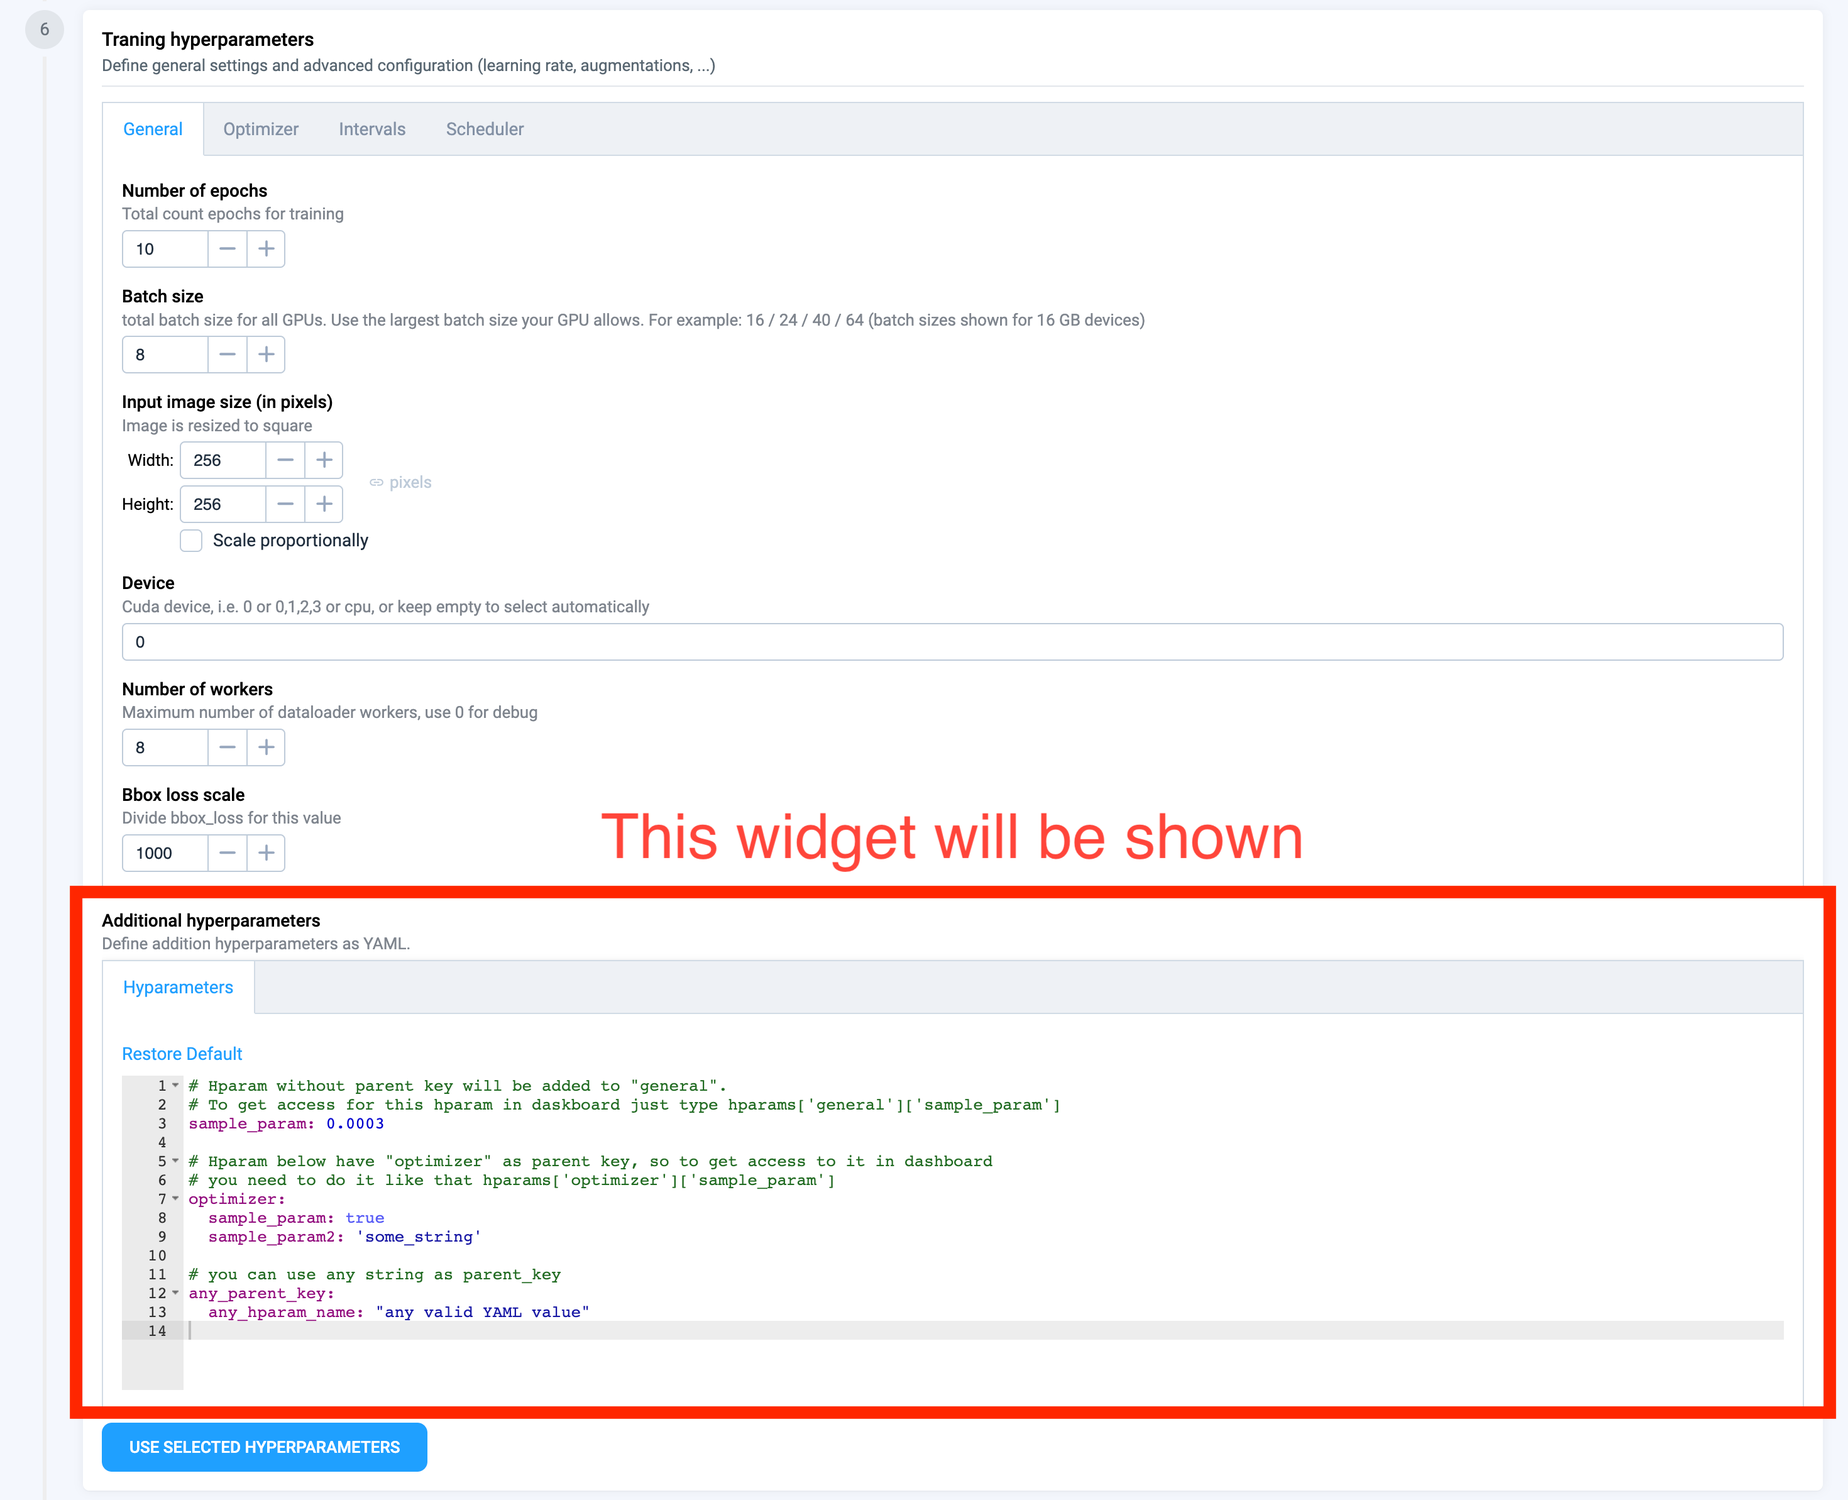
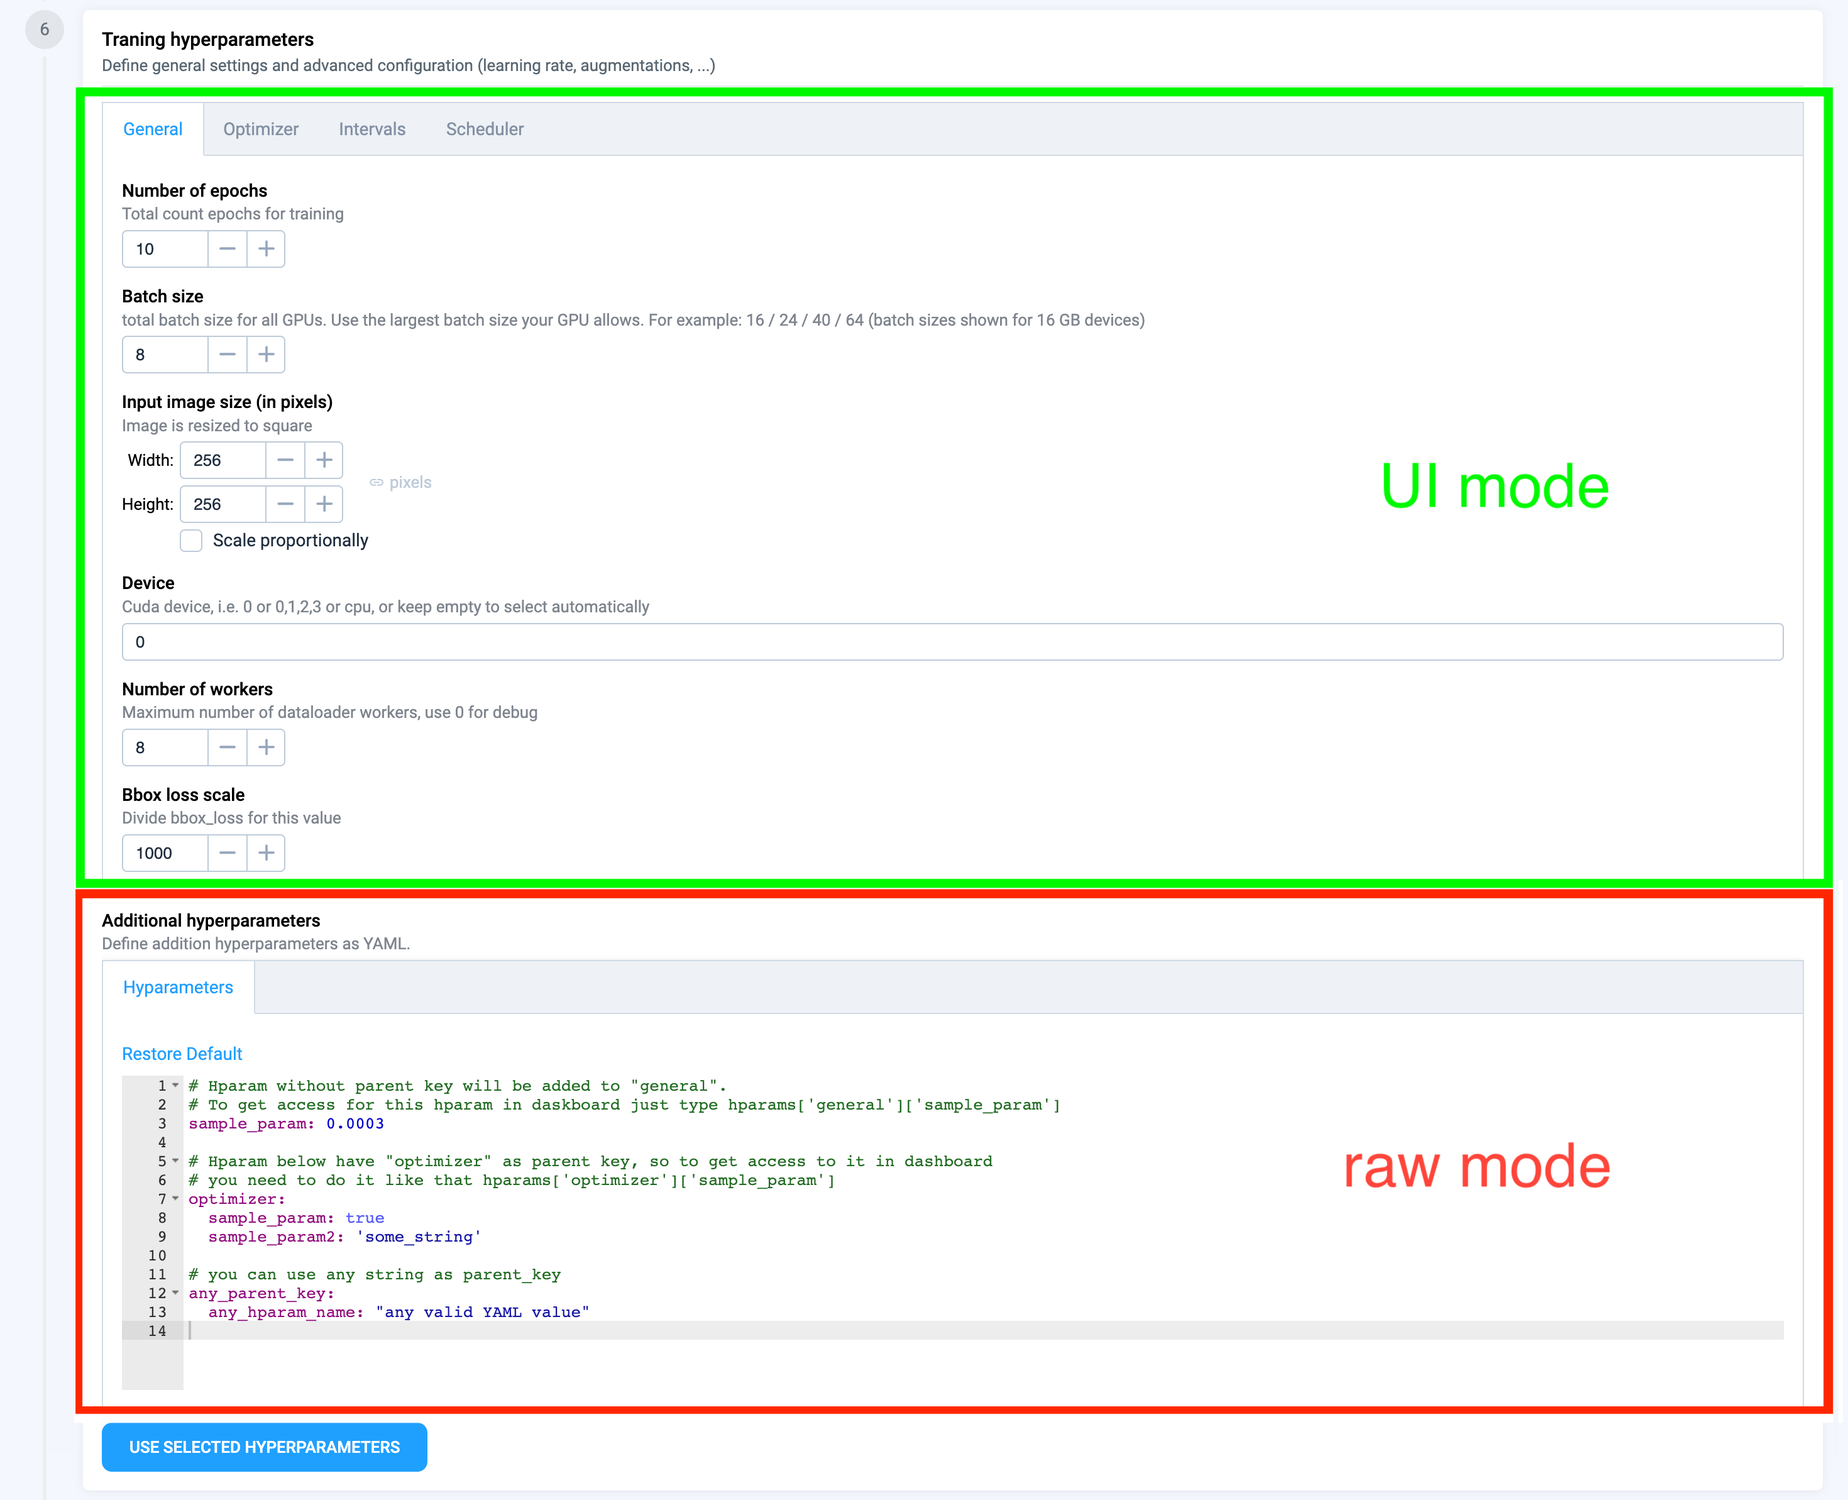
Docs updated

Changed region(s): [[0.031, 0.031, 1.0, 0.9614], [0.7119, 0.7443, 0.8667, 0.8064], [0.7429, 0.3101, 0.8667, 0.3412]]

diff --git a/app-development/neural-network-integration/training/training-dashboard.md b/app-development/neural-network-integration/training/training-dashboard.md
@@ -8,7 +8,10 @@ description: >-
 
 ## Introduction
 
-This tutorial will teach you how to integrate your custom object detection model into Supervisely by using TrainingDashboard class.
+This tutorial will teach you how to integrate your custom object detection model into Supervisely by using ObjectDetectionTrainDashboad class. 
+
+Full code of object detecting sample app can be found [here](https://github.com/supervisely-ecosystem/object-detection-training-template)
+
 <figure>
 <img src="../../../.gitbook/assets/training_dashboard.png" alt="">
 </figure>
@@ -37,7 +40,7 @@ code -r .
 The integration of your own NN with TrainingDashboard is really simple:
 
 1. Define pytorch dataset
-2. Define neural network model
+2. Define pytorch neural network model
 3. Define subclass **`TrainingDashboard`** and implement **`train`** method
 4. That's all. 😎 We are ready to run the training dashboard app.
 
@@ -59,38 +62,45 @@ from torch.utils.tensorboard import SummaryWriter
 from torchvision import models
 
 import src.sly_globals as g
-from src.dashboard import TrainDashboard
+from src.dashboard import ObjectDetectionTrainDashboad
 
 
 ###########################
 ### 1. Redefine your dataset and methods or use them as is
 ###########################
+
 class CustomDataset(Dataset):
-    def __init__(self, items_infos, classes, image_size, transforms=None):
-        self.items_infos = items_infos
+    def __init__(self, 
+                 items: sly.ImageInfo, 
+                 project_meta: sly.ProjectMeta, 
+                 classes: List[str], 
+                 input_size: Union[List, Tuple], 
+                 transforms: Optional[iaa.Sequential] = None):
+        self.items = items
+        self.project_meta = project_meta
         self.classes = classes
-        self.image_size = image_size
+        self.input_size = input_size
         self.transforms = transforms
     
-    def __getitem__(self, index):
-        image = sly.image.read(self.items_infos[index].img_path)
-        meta = g.project_meta
-        with open(self.items_infos[index].ann_path, 'r') as f:
-            ann = sly.Annotation.from_json(json.loads(f.read()), meta)
-        ann, meta = Augmentations.convert_ann_to_bboxes(ann, meta)
+    def __getitem__(self, index: int):
+        image = sly.image.read(self.items[index].img_path)
+        with open(self.items[index].ann_path, 'r') as f:
+            ann = sly.Annotation.from_json(json.loads(f.read()), self.project_meta)
 
         if self.transforms:
-            res_meta, image, ann = sly.imgaug_utils.apply(self.transforms, meta, image, ann)
+            res_meta, image, ann = sly.imgaug_utils.apply(self.transforms, self.project_meta, image, ann)
 
         meta, image, ann = sly.imgaug_utils.apply(
             iaa.Sequential([
-                iaa.Resize({"height": self.image_size[1], "width": self.image_size[0]})
+                iaa.Resize({"height": self.input_size[1], "width": self.input_size[0]})
             ]), 
-            meta, 
+            self.project_meta, 
             image, 
             ann
         )
 
+        # our simple model can work only with 1 bbox per image
+        # you need to change code if your model more complicated
         label = random.choice(ann.labels)
         class_id = self.classes.index(label.obj_class.name)
         bbox = label.geometry.to_bbox()
@@ -100,7 +110,8 @@ class CustomDataset(Dataset):
         return image, class_id, bbox
 
     def __len__(self):
-        return len(self.items_infos)
+        return len(self.items)
+
 
 ###########################
 ### 2. Define neural network model
@@ -126,7 +137,7 @@ class CustomModel(nn.Module):
 ###########################
 ### 3. Define dashboard
 ###########################
-class CustomTrainDashboard(TrainDashboard):
+class CustomTrainDashboard(ObjectDetectionTrainDashboad):
     def train(self):
         # getting selected classes from UI
         classes = self._classes_table.get_selected_classes()
@@ -134,52 +145,49 @@ class CustomTrainDashboard(TrainDashboard):
         train_set, val_set = self.get_splits()
         # getting hyperparameters from UI
         hparams = self.get_hyperparameters()
-        # this will return torch.optim.YOUR_SELECTED_OPTIMIZER
-        optimizer = self.get_optimizer(name=hparams['optimizer']['name'])
-        optimizer = optimizer(
-            self.model.parameters(),
-            hparams['optimizer']['lr'],
-            hparams['optimizer']['eps'],
-        )
-        device = f"cuda:{hparams['general']['device']}" if hparams['general']['device'].isdigit() else hparams['general']['device']
+        # initialized with selected hyperparameters pytorch optimizer will be returned 
+        optimizer = self.get_optimizer(hparams)
+        device = hparams.general.device
         # extra hparam to scale loss
-        C = hparams['general']['C']
+        C = hparams.general.C
         
         # getting selected augmentation from UI
         transforms = self.get_transforms()
         train_dataset = CustomDataset(
             train_set, 
-            transforms=transforms, 
+            project_meta=g.project_fs.meta, 
             classes=classes, 
-            image_size=hparams['general']['input_image_size']
+            input_size=hparams.general.input_image_size,
+            transforms=transforms, 
         )
         val_dataset = CustomDataset(
             val_set, 
+            project_meta=g.project_fs.meta, 
             classes=classes, 
-            image_size=hparams['general']['input_image_size']
+            input_size=hparams.general.input_image_size
         )
         train_loader = DataLoader(
             train_dataset, 
-            batch_size=hparams['general']['batch_size'], 
+            batch_size=hparams.general.batch_size, 
             shuffle=True,
-            num_workers=hparams['general']['workers_number']
+            num_workers=hparams.general.workers_number
         )
         val_loader = DataLoader(
             val_dataset, 
-            batch_size=hparams['general']['batch_size'],
-            num_workers=hparams['general']['workers_number']
+            batch_size=hparams.general.batch_size,
+            num_workers=hparams.general.workers_number
         )
 
-        # it will return None if pretrained model weights aren't selected in UI.
-        pretrained_weights_path = self.get_pretrained_weights_path()
-        if pretrained_weights_path:
-            self.model = torch.load_state_dict(pretrained_weights_path)
+        # it will return None if pretrained model weights isn't selected in UI
+        if self.pretrained_weights_path:
+            self.model.load_state_dict(torch.load(self.pretrained_weights_path))
+            sly.logger.info('Model checkpoint successfully loaded.')
         
         model.to(device)
-        with self.progress_bar(message=f"Training...", total=hparams['general']['number_of_epochs']) as pbar:
+        with self.progress_bar(message=f"Training...", total=hparams.general.number_of_epochs) as pbar:
             self.model.train()
             # change training and eval loops for your model if needed
-            for epoch in range(hparams['general']['number_of_epochs']):
+            for epoch in range(hparams.general.number_of_epochs):
                 train_total_samples = 0
                 train_sum_loss = 0
                 train_correct = 0 
@@ -205,9 +213,9 @@ class CustomTrainDashboard(TrainDashboard):
                     train_correct += pred.eq(classes).sum().item()
                 train_loss = train_sum_loss / train_total_samples
                 train_accuracy = train_correct / train_total_samples
-
-                if hparams['intervals'].get('validation', False):
-                    if epoch % hparams['intervals']['validation'] == 0:
+                
+                if hasattr(hparams.intervals, 'validation'):
+                    if epoch % hparams.intervals.validation == 0:
                         model.eval()
                         val_total_samples = 0
                         val_sum_loss = 0
@@ -232,13 +240,15 @@ class CustomTrainDashboard(TrainDashboard):
                         val_loss = val_sum_loss / val_total_samples
                         val_accuracy = val_correct / val_total_samples
 
-                if hparams['intervals'].get('сheckpoints_interval', False):
-                    if epoch % hparams['intervals']['сheckpoints'] == 0:
-                        torch.save(self.model.state_dict(), os.path.join(g.checkpoints_dir, f'model_epoch_{epoch}.pth'))
+                if hasattr(hparams.intervals, 'сheckpoints'):
+                    if epoch % hparams.intervals.сheckpoints == 0:
+                        temp_checkpoint_path = os.path.join(g.checkpoints_dir, f'model_epoch_{epoch}.pth')
+                        torch.save(self.model.state_dict(), temp_checkpoint_path)
+                        self.log('add_text', tag='Main logs', text_string=f"Model saved at:\n{temp_checkpoint_path}")
 
-                if epoch % hparams['intervals'].get('logging_interval', 1) == 0:
-                    # common method for logging your values to the dashboard is self.log().
-                    # also you can log values only by your own logger if it is set to call it by class name.
+                if epoch % hparams.intervals.logging == 0:
+                    # common method to logging your values to dashboard
+                    # you log values only by your own logger if it setted just call it by class name
                     # self.loggers.YOUR_LOGGER.add_scalar(tag='Loss/train', scalar_value=train_loss, global_step=epoch)
                     self.log('add_scalar', tag='Loss/train', scalar_value=train_loss, global_step=epoch)
                     self.log('add_scalar', tag='Loss/val', scalar_value=val_loss, global_step=epoch)
@@ -278,7 +288,27 @@ app = dashboard.run()
 ```
 
 ## Training dashboard configuration and customization 
-### Configuration via optional params of TrainDashboard:
+### Configuration via optional params of ObjectDetectionTrainDashboad:
+This section provide detailed information about parameters for ObjectDetectionTrainDashboad initialize and how to change it.
+
+```python
+class ObjectDetectionTrainDashboad:
+    def __init__(
+            self, 
+            model,
+            plots_titles: List[str],
+            pretrained_weights: Dict[str, List] = None,
+            hyperparameters_categories: List[str] = ['general', 'checkpoints', 'optimizer', 'intervals', 'scheduler'],
+            extra_hyperparams: Dict[str, List] = {},
+            hyperparams_edit_mode: Literal['ui', 'raw', 'all'] = 'ui',
+            show_augmentations_ui: bool = True,
+            extra_augmentation_templates: List[Dict[str, str]] = [],
+            download_batch_size: int = 100,
+            loggers: List = [],
+        ):
+        ...
+```
+
 - **pretrained_weights**: `Dict` - it defines the table of pretraned model weights in UI as:
     
     Example:
@@ -288,17 +318,27 @@ app = dashboard.run()
         'columns': ['Name', 'Description', 'Path'], # table headers
         'rows': [
             # The path can be local path, team files path or url
-            ['Unet', 'Vanilla Unet', './weights/weights/unet.pth'], # local path
-            ['Unet-11', 'VGG16', './weights/weights/unet11.pth'], # team files path
+            ['Unet', 'Vanilla Unet', 'data/checkpoints/unet.pth'], # local path
+            ['Unet-11', 'VGG16', '/data/checkpoints/unet11.pth'], # team files path
             ['Unet-16', 'VGG11', 'https://your_file_server/unet16.pth'] # url (in the future releases)
         ]
     }
     ```
-    The "Pretrained weights" tab will appear in the model settings card automatically
+
+    The "Pretrained weights" tab will appear in the model settings card automatically.
     <figure>
     <img src="../../../.gitbook/assets/custom_weights_tab.png" alt="">
     </figure>
 
+    {% hint style="info" %}
+
+    If the provided path doesn't exist in the local filesystem at `sly_globals.checkpoints_dir`, it will be downloaded from Team files. 
+    
+    Default `sly_globals.checkpoints_dir` is `data/checkpoints`
+
+    {% endhint %}
+
+    
 - **hyperparameters_categories**: `List` - list of tabs names in hyperparameters UI. 
     
     Default: `['general', 'checkpoints', 'optimizer', 'intervals', 'scheduler']`
@@ -309,8 +349,36 @@ app = dashboard.run()
     <img src="../../../.gitbook/assets/hparams_tabs.png" alt="">
     </figure>
 
-- **extra_hyperparams**: `Dict` - additional hyperparams, which will be added to hyperparameters UI.
+- **extra_hyperparams**: `Dict` - they will be added at the end of list hyperparams in the tab by passed tab name, which used as parent key.
+
+    Extra hyperparam structure
+    ``` python
+    {
+        'any_tab_name': [
+            {
+                'any_key': str, # by key you will get access to widget value. hparams.any_tab_name.any_key
+                'title': str, 
+                'description': str,
+                'content': sly.Widget # any widget from sly.app.widgets with "get_value" method
+            }
+        ]
+    }
+    ```
+
+    {% hint style="warning" %}
     
+    `any_tab_name` should be unique string.
+
+    `any_key` should be unique string for corresponding tab, but it can be repeatet on a another tab. See example below.
+    
+    `content` work correctly only with `sly.app.widgets`, which have `get_value` method.
+    
+    In other cases you have two options: 
+    - implement `get_value` method for your widget
+    - modify `get_hyperparameters` method for support custom widgets 
+    
+    {% endhint %}
+
     Example:
     ``` python
     extra_hyperparams={
@@ -325,7 +393,7 @@ app = dashboard.run()
                 description='Some description about this hyperparameter', 
                 content=InputNumber(6, min=2, max=10, step=2, size='small')),
         ],
-        # adding "addition_hparam1" to "checkpoints" tab
+        # adding duplicated "addition_hparam1" to "checkpoints" tab
         'checkpoints': [
             dict(key='addition_hparam_1',
                 title='Addition hyperparameter 1', 
@@ -351,12 +419,18 @@ app = dashboard.run()
     
     Supported values: [`'ui', 'raw', 'all'`]
     
-    If you will set hyperparams_edit_mode to `raw` or `all`, this additional widget will be shown.
+    `ui` - only 🟢 section will be shown.
+    
+    `raw` - only 🔴 section will be shown.
+    
+    `all` - 🟢 + 🔴 sections will be shown together.
+
     <figure>
     <img src="../../../.gitbook/assets/raw_hyperparams.png" alt="">
     </figure>
     
     {% hint style="warning" %}
+    
     The hyperparams from UI will overwrite hyperparams with the same names from the text editor widget.
 
     For example, if you declare `hparam_1` with "general" as the parent key in extra_hyperparams or in hyperparameters_ui method
@@ -374,6 +448,7 @@ app = dashboard.run()
         hparam_1: 0.1
     ```
     then when you will call `get_hyperparameters` method, the `hparam_1` value will be equal to `100`, not `0.1`.
+    
     {% endhint %}
     
 - **show_augmentations_ui**: `Bool` - show/hide flag for augmentations card
@@ -388,10 +463,10 @@ app = dashboard.run()
     ``` python
     AUG_TEMPLATES = [
         # label - just title for selector option
-        # value - local path or teamfiles path
-        {'label': 'Label 1', 'value':'aug_templates/light.json'},
-        {'label': 'Label 2', 'value':'aug_templates/light_corrupt.json'},
-        {'label': 'Label 3', 'value':'aug_templates/medium.json'},
+        # value - local path
+        {'label': 'My aug 1', 'value':'aug_templates/light.json'},
+        {'label': 'My aug 2', 'value':'aug_templates/light_corrupt.json'},
+        {'label': 'My aug 3', 'value':'aug_templates/medium.json'},
     ]
     ```
     If you will set hyperparams_edit_mode to `raw` or `all`, this additional widget will be shown.
@@ -447,7 +522,7 @@ To change content of hyperparameters card just re-define `hyperparameters_ui` me
 
 Example:
 ``` python
-class CustomTrainDashboard(TrainDashboard):
+class CustomTrainDashboard(ObjectDetectionTrainDashboad):
     def hyperparameters_ui(self):
         hparams_widgets = {}
         # adding widgets to "my_hparam_tab" in IU. "my_hparam_tab" will be used as parent key.
@@ -475,3 +550,11 @@ dashboard = CustomTrainDashboard(
 Environment variable `SLY_APP_DATA_DIR` in `src.globals` is used to provide access to app files when the app will be finished.
 If something went wrong in your training process at any moment - you won't lose checkpoints and other important artifacts. 
 They will be available by SFTP.
+
+By default [object-detection-training-template](https://github.com/supervisely-ecosystem/object-detection-training-template) use this directoties structure:
+
+- `project_dir` = os.path.join(root_source_dir, "sly_project") - project training data destination folder
+- `data_dir` = os.path.join(root_source_dir, "data") - data dir with all training artefacts. This dir will be saved in Team files at `remote_data_dir` after model training.
+- `checkpoints_dir` = os.path.join(data_dir, 'checkpoints') - Model checkponts will be saved here. This dir included in `data_dir`.
+- `tensorboard_runs_dir` = os.path.join(data_dir, 'tensorboard_runs')
+- `remote_data_dir` = f"/train_dashboard/{project.name}/runs/{time.strftime('%Y-%m-%d %H:%M:%S')}" - the destination dir in Team files for all training artefacts.
